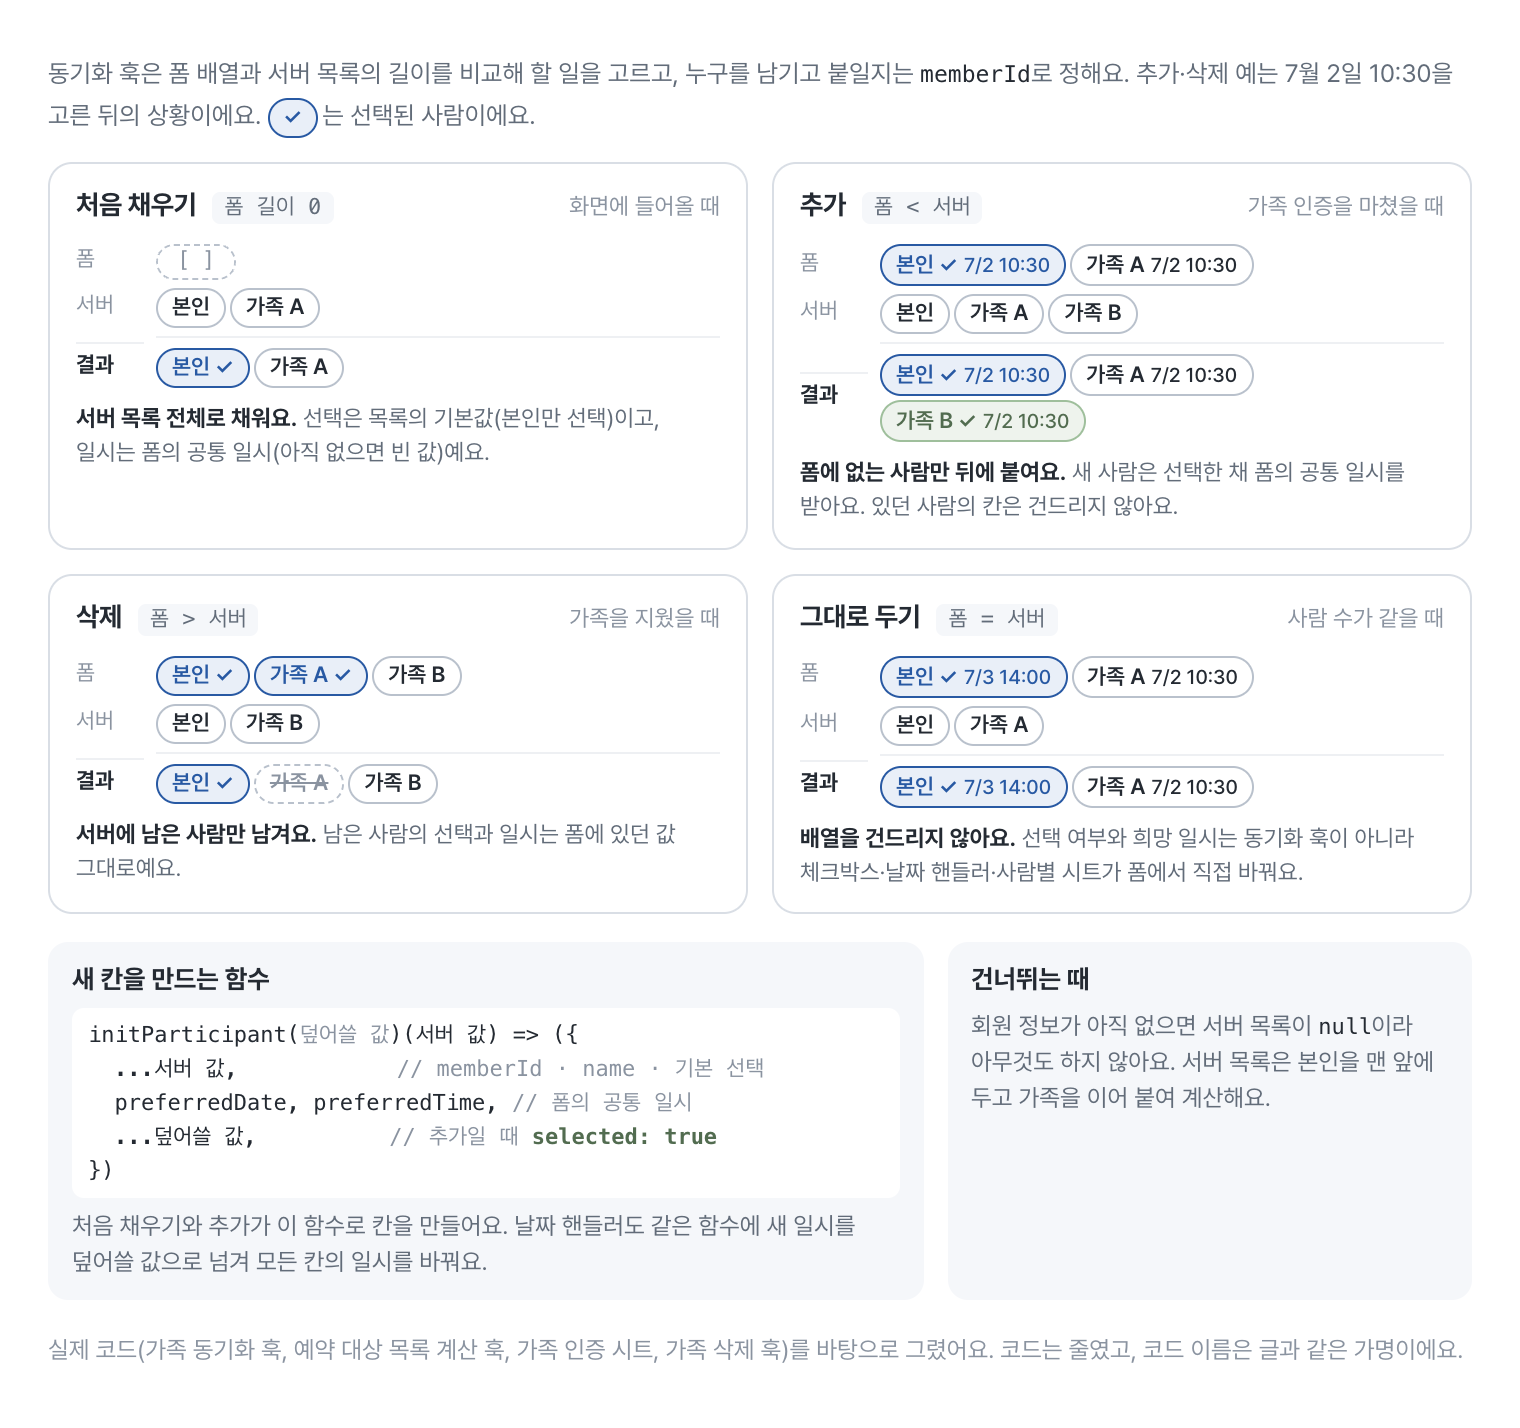
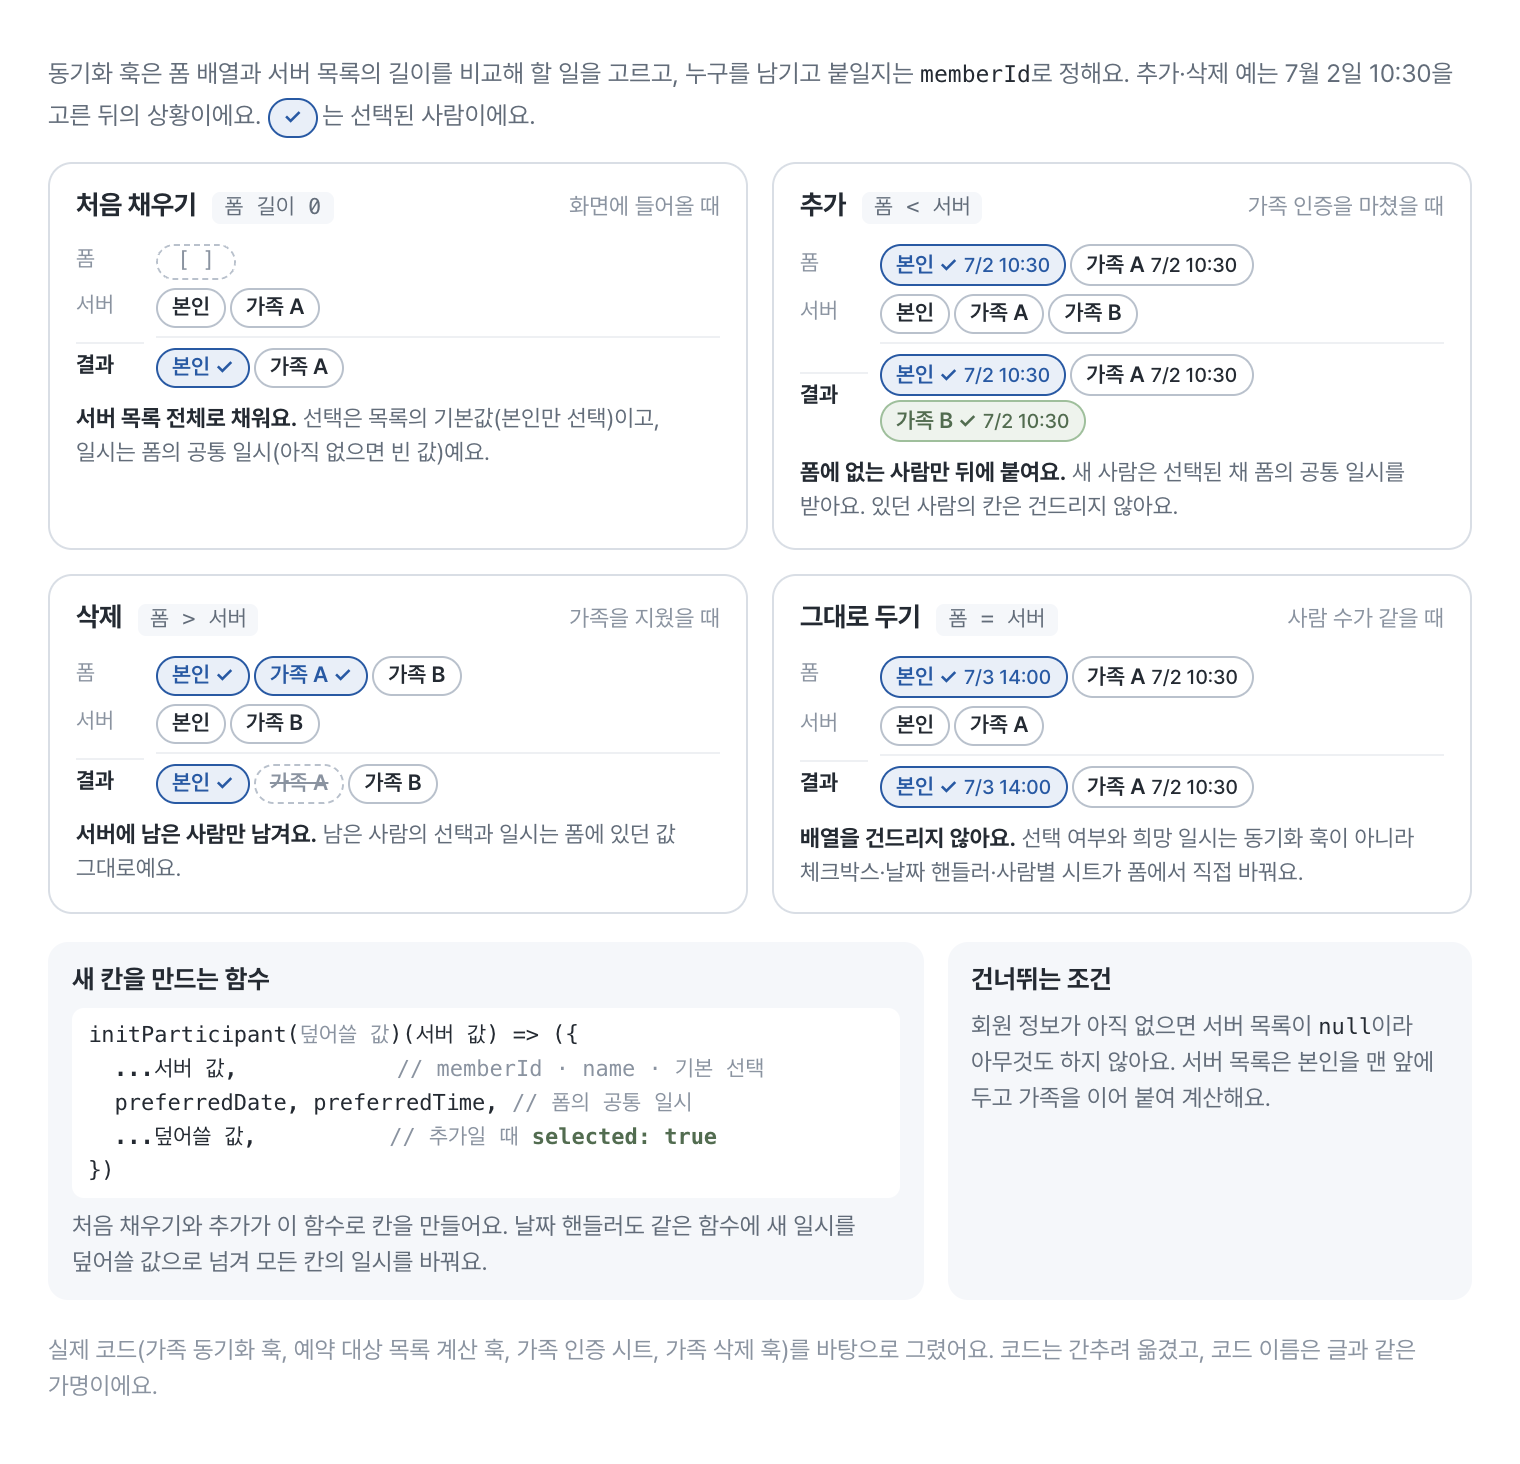
docs(blog): 예약 폼 그림의 호응·용어·각주 문구를 다듬는다 (04-sync-by-length)

diff --git a/blog/assets/figures/reservation-form/src/04-sync-by-length.html b/blog/assets/figures/reservation-form/src/04-sync-by-length.html
@@ -57,7 +57,7 @@
       <span class="k">서버</span><div><span class="p">본인</span><span class="p">가족 A</span><span class="p">가족 B</span></div>
       <span class="k r res">결과</span><div class="res"><span class="p sel">본인 ✓<small>7/2 10:30</small></span><span class="p">가족 A<small>7/2 10:30</small></span><span class="p new">가족 B ✓<small>7/2 10:30</small></span></div>
     </div>
-    <p class="verdict"><b>폼에 없는 사람만 뒤에 붙여요.</b> 새 사람은 선택한 채 폼의 공통 일시를 받아요. 있던 사람의 칸은 건드리지 않아요.</p>
+    <p class="verdict"><b>폼에 없는 사람만 뒤에 붙여요.</b> 새 사람은 선택된 채 폼의 공통 일시를 받아요. 있던 사람의 칸은 건드리지 않아요.</p>
   </div>
 
   <div class="panel">
@@ -92,10 +92,10 @@
     처음 채우기와 추가가 이 함수로 칸을 만들어요. 날짜 핸들러도 같은 함수에 새 일시를 덮어쓸 값으로 넘겨 모든 칸의 일시를 바꿔요.
   </div>
   <div class="tb">
-    <div class="h">건너뛰는 때</div>
+    <div class="h">건너뛰는 조건</div>
     회원 정보가 아직 없으면 서버 목록이 <code>null</code>이라 아무것도 하지 않아요. 서버 목록은 본인을 맨 앞에 두고 가족을 이어 붙여 계산해요.
   </div>
 </div>
 
-<p class="foot">실제 코드(가족 동기화 훅, 예약 대상 목록 계산 훅, 가족 인증 시트, 가족 삭제 훅)를 바탕으로 그렸어요. 코드는 줄였고, 코드 이름은 글과 같은 가명이에요.</p>
+<p class="foot">실제 코드(가족 동기화 훅, 예약 대상 목록 계산 훅, 가족 인증 시트, 가족 삭제 훅)를 바탕으로 그렸어요. 코드는 간추려 옮겼고, 코드 이름은 글과 같은 가명이에요.</p>
 </body></html>
